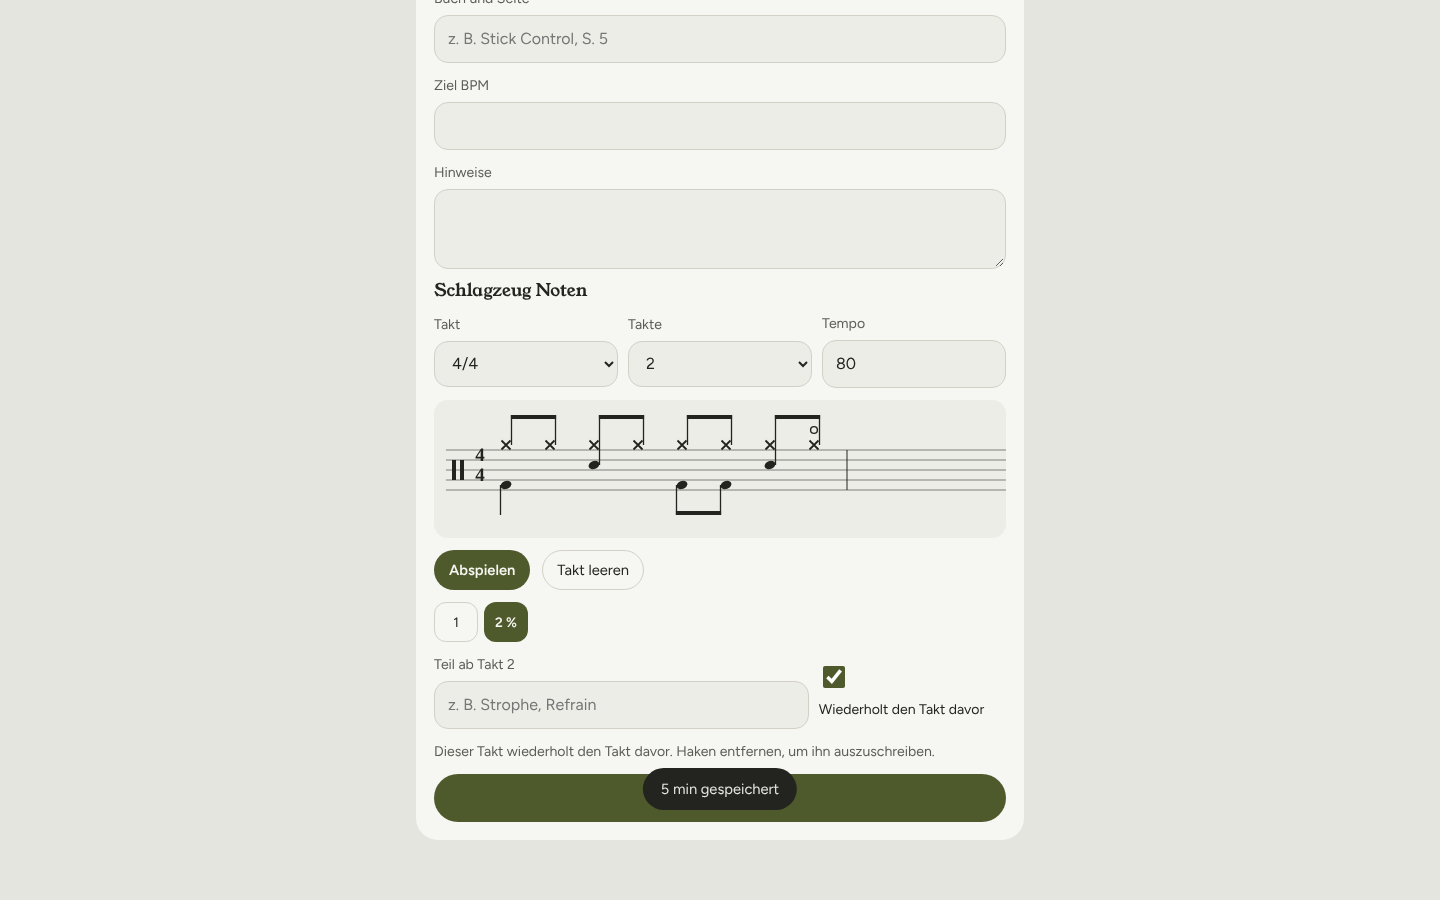
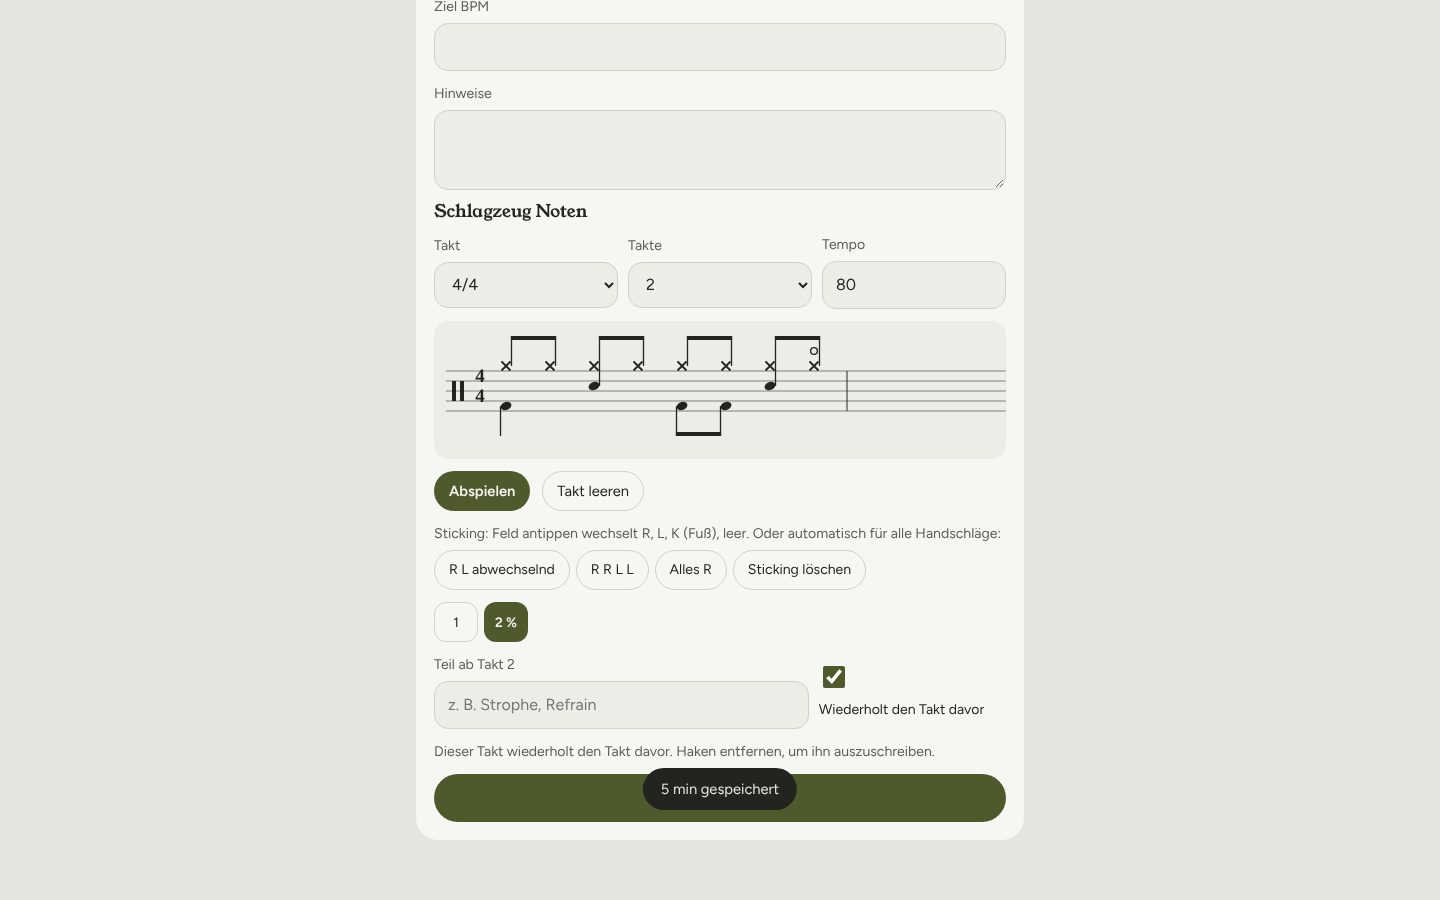
Beat Editor: Sticking Zeile oben, R L, R R L L, Alles R per Knopf
Claude-Session: https://claude.ai/code/session_01A3bZV3jynFTyqUVRK9pefN

diff --git a/public/notation.js b/public/notation.js
@@ -289,19 +289,28 @@
       });
     };
   }
+  // Sticking automatisch: alle Schritte mit einem Handschlag (nicht Bassdrum, nicht HiHat Fuß) der Reihe nach mit dem Muster füllen
+  function autoStick(n, pattern) {
+    n.stick = {}; if (!pattern) return n;
+    const hands = ROWS.filter((r) => r.k !== 'bd' && r.k !== 'hf').map((r) => r.k);
+    const steps = [...new Set(hands.flatMap((k) => n.tracks[k] || []))].sort((a, b) => a - b);
+    steps.forEach((i, j) => { n.stick[i] = pattern[j % pattern.length]; });
+    return n;
+  }
   const usedKeys = (n) => ROWS.filter((r) => n.tracks[r.k].length).map((r) => r.k);
 
   // ---------- Editor: Takt wählen, Raster für einen Takt ----------
   function editorHTML(n, id, curBar = 0) {
     const pb = perBar(n.sig), gs = groupSize(n.sig), from = curBar * pb, rep = n.repeat.includes(curBar);
     const head = `<tr><th scope="col"><span class="nt-sr">Instrument</span></th>${Array.from({ length: pb }, (_, j) => `<th scope="col" class="${j % gs === 0 ? 'nt-beat' : ''}">${esc(countLabel(n.sig, j))}</th>`).join('')}</tr>`;
-    const rows = ROWS.map((r) => `<tr><th scope="row">${r.n}</th>${Array.from({ length: pb }, (_, j) => {
+    const stickRow = `<tr class="nt-stickrow"><th scope="row">Sticking</th>${Array.from({ length: pb }, (_, j) => {
+      const i = from + j, v = (n.stick || {})[i] || '';
+      return `<td class="${Math.floor(j / gs) % 2 ? 'nt-alt' : ''}"><button type="button" class="nt-cell nt-stick" data-nt="${id}" data-k="stick" data-i="${i}" aria-pressed="${!!v}" aria-label="Sticking auf ${esc(countLabel(n.sig, j))}: ${v || 'keins'}" ${rep ? 'disabled' : ''}>${v}</button></td>`;
+    }).join('')}</tr>`;
+    const rows = stickRow + ROWS.map((r) => `<tr><th scope="row">${r.n}</th>${Array.from({ length: pb }, (_, j) => {
       const i = from + j;
       return `<td class="${Math.floor(j / gs) % 2 ? 'nt-alt' : ''}"><button type="button" class="nt-cell" data-nt="${id}" data-k="${r.k}" data-i="${i}" aria-pressed="${has(n, r.k, i)}" aria-label="${r.n} auf ${esc(countLabel(n.sig, j))}, Takt ${curBar + 1}" ${rep ? 'disabled' : ''}></button></td>`;
-    }).join('')}</tr>`).join('') + `<tr><th scope="row">Hand</th>${Array.from({ length: pb }, (_, j) => {
-      const i = from + j, v = (n.stick || {})[i] || '';
-      return `<td class="${Math.floor(j / gs) % 2 ? 'nt-alt' : ''}"><button type="button" class="nt-cell nt-stick" data-nt="${id}" data-k="stick" data-i="${i}" aria-pressed="${!!v}" aria-label="Hand auf ${esc(countLabel(n.sig, j))}: ${v || 'keine'}" ${rep ? 'disabled' : ''}>${v}</button></td>`;
-    }).join('')}</tr>`;
+    }).join('')}</tr>`).join('');
     const tabs = Array.from({ length: n.bars }, (_, b) => `<button type="button" class="nt-bartab" data-nt-bar="${b}" data-nt-id="${id}" aria-pressed="${b === curBar}">${b + 1}${n.repeat.includes(b) ? ' %' : ''}${n.marks[b] ? ' · ' + esc(n.marks[b]) : ''}</button>`).join('');
     return `<div class="nt-editor" id="${id}" data-bar="${curBar}">
       <div class="row" style="gap:10px">
@@ -311,6 +320,8 @@
       </div>
       <div class="nt-staff">${render(n, { cursor: true })}</div>
       <div class="row"><button type="button" class="btn small primary" data-nt-act="play" data-nt-id="${id}">Abspielen</button><button type="button" class="btn small" data-nt-act="clear" data-nt-id="${id}">Takt leeren</button></div>
+      <div class="col" style="gap:6px"><span class="small muted">Sticking: Feld antippen wechselt R, L, K (Fuß), leer. Oder automatisch für alle Handschläge:</span>
+        <div class="row" style="gap:6px"><button type="button" class="chip" data-nt-act="stick" data-p="RL" data-nt-id="${id}">R L abwechselnd</button><button type="button" class="chip" data-nt-act="stick" data-p="RRLL" data-nt-id="${id}">R R L L</button><button type="button" class="chip" data-nt-act="stick" data-p="R" data-nt-id="${id}">Alles R</button><button type="button" class="chip" data-nt-act="stick" data-p="" data-nt-id="${id}">Sticking löschen</button></div></div>
       ${n.bars > 1 ? `<div class="nt-bartabs" role="group" aria-label="Takt zum Bearbeiten">${tabs}</div>` : ''}
       <div class="row" style="gap:10px">
         <div class="field" style="flex:2;min-width:150px"><label for="${id}-mark">Teil ab Takt ${curBar + 1}</label><input id="${id}-mark" data-nt-ctl="mark" maxlength="30" placeholder="z. B. Strophe, Refrain" value="${esc(n.marks[curBar] || '')}"></div>
@@ -320,5 +331,5 @@
     </div>`;
   }
 
-  window.DrumNotation = { SIGS, ROWS, MAX_BARS, empty, parse, render, toggle, has, play, stop, setTempo, setMute, setTrainer, hit, editorHTML, cursorFor, total, perBar, setBars, usedKeys, isPlaying: () => P.playing, audio, click, setClick, loadSamples: () => { audio(); return loadSamples(); } };
+  window.DrumNotation = { SIGS, ROWS, MAX_BARS, empty, parse, render, toggle, has, play, stop, setTempo, setMute, setTrainer, hit, editorHTML, cursorFor, total, perBar, setBars, usedKeys, isPlaying: () => P.playing, autoStick, audio, click, setClick, loadSamples: () => { audio(); return loadSamples(); } };
 })();

diff --git a/public/sw.js b/public/sw.js
@@ -1,6 +1,6 @@
 // Practice Hub Service Worker: App Dateien offline, API nie aus dem Cache
-const CACHE = 'ph-v39';
-const FILES = ['./', 'index.html', 'datenschutz.html', 'manifest.webmanifest', 'icon.svg', 'icon-180.png', 'icon-512.png', 'notation.js?v=39', 'guitar.js?v=39', 'fonts/young-serif.woff2', 'fonts/figtree.woff2', 'samples/bd.mp3?v=39', 'samples/sn.mp3?v=39', 'samples/t1.mp3?v=39', 'samples/t2.mp3?v=39', 'samples/ft.mp3?v=39', 'samples/cr.mp3?v=39', 'samples/hh.mp3?v=39', 'samples/ho.mp3?v=39', 'samples/rd.mp3?v=39'];
+const CACHE = 'ph-v40';
+const FILES = ['./', 'index.html', 'datenschutz.html', 'manifest.webmanifest', 'icon.svg', 'icon-180.png', 'icon-512.png', 'notation.js?v=40', 'guitar.js?v=40', 'fonts/young-serif.woff2', 'fonts/figtree.woff2', 'samples/bd.mp3?v=40', 'samples/sn.mp3?v=40', 'samples/t1.mp3?v=40', 'samples/t2.mp3?v=40', 'samples/ft.mp3?v=40', 'samples/cr.mp3?v=40', 'samples/hh.mp3?v=40', 'samples/ho.mp3?v=40', 'samples/rd.mp3?v=40'];
 self.addEventListener('install', (e) => { e.waitUntil(caches.open(CACHE).then((c) => c.addAll(FILES)).then(() => self.skipWaiting())); });
 self.addEventListener('activate', (e) => { e.waitUntil(caches.keys().then((ks) => Promise.all(ks.filter((k) => k !== CACHE).map((k) => caches.delete(k)))).then(() => self.clients.claim())); });
 self.addEventListener('fetch', (e) => {

diff --git a/public/index.html b/public/index.html
@@ -194,8 +194,8 @@ details.card summary{cursor:pointer;font-family:var(--display);font-size:1.08rem
 </head>
 <body>
 <div id="app"><div class="wrap"><p class="muted">Lädt …</p></div></div>
-<script src="notation.js?v=39"></script>
-<script src="guitar.js?v=39"></script>
+<script src="notation.js?v=40"></script>
+<script src="guitar.js?v=40"></script>
 <script>
 'use strict';
 // ---------- Grundlagen ----------
@@ -1622,7 +1622,9 @@ document.addEventListener('click', (ev) => {
   } else if (actBtn.dataset.ntAct === 'play') {
     if (DrumNotation.isPlaying()) { DrumNotation.stop(); actBtn.textContent = 'Abspielen'; }
     else { playBeat(n, document.querySelector('#' + id + ' .nt-staff'), n.bpm); actBtn.textContent = 'Stopp'; }
-  } else if (actBtn.dataset.ntAct === 'clear') {
+  } else if (actBtn.dataset.ntAct === 'stick') {
+    DrumNotation.autoStick(n, actBtn.dataset.p || ''); refreshEditor(id, true, ntBar(id));
+    } else if (actBtn.dataset.ntAct === 'clear') {
     const pb = DrumNotation.perBar(n.sig), bar = ntBar(id);
     for (const k in n.tracks) n.tracks[k] = n.tracks[k].filter((i) => i < bar * pb || i >= (bar + 1) * pb);
     refreshEditor(id, true, bar);
